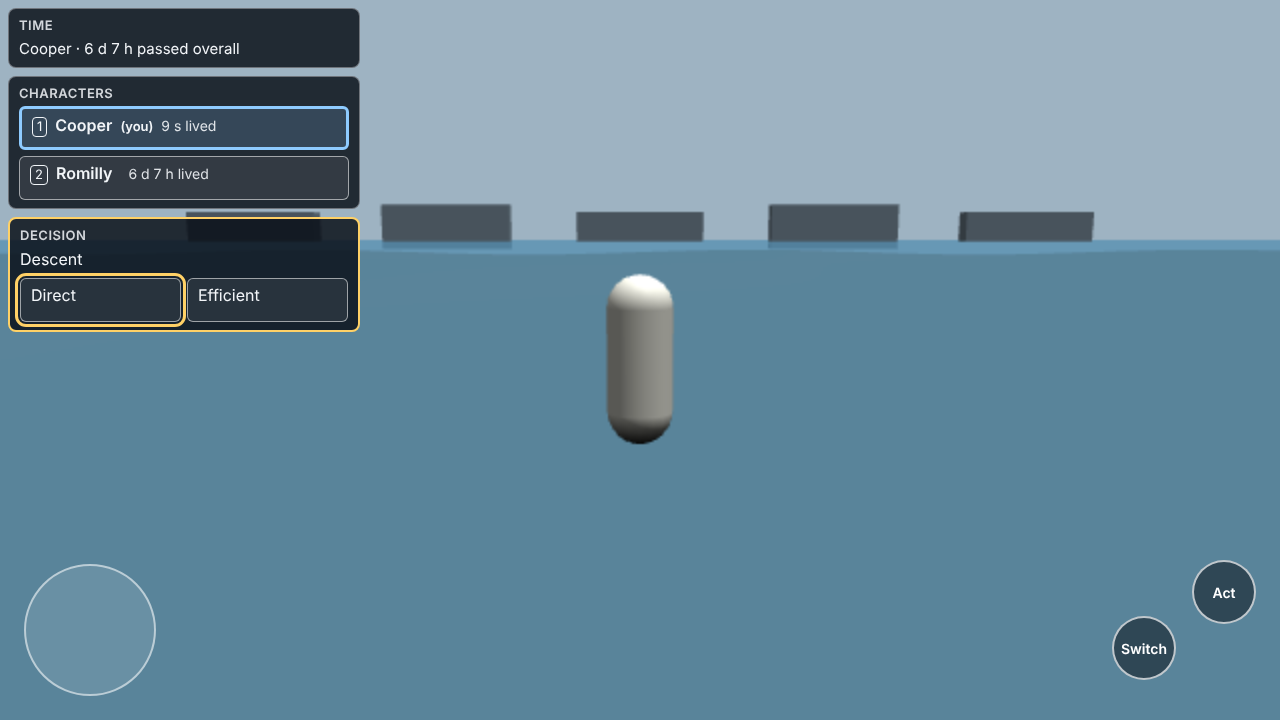
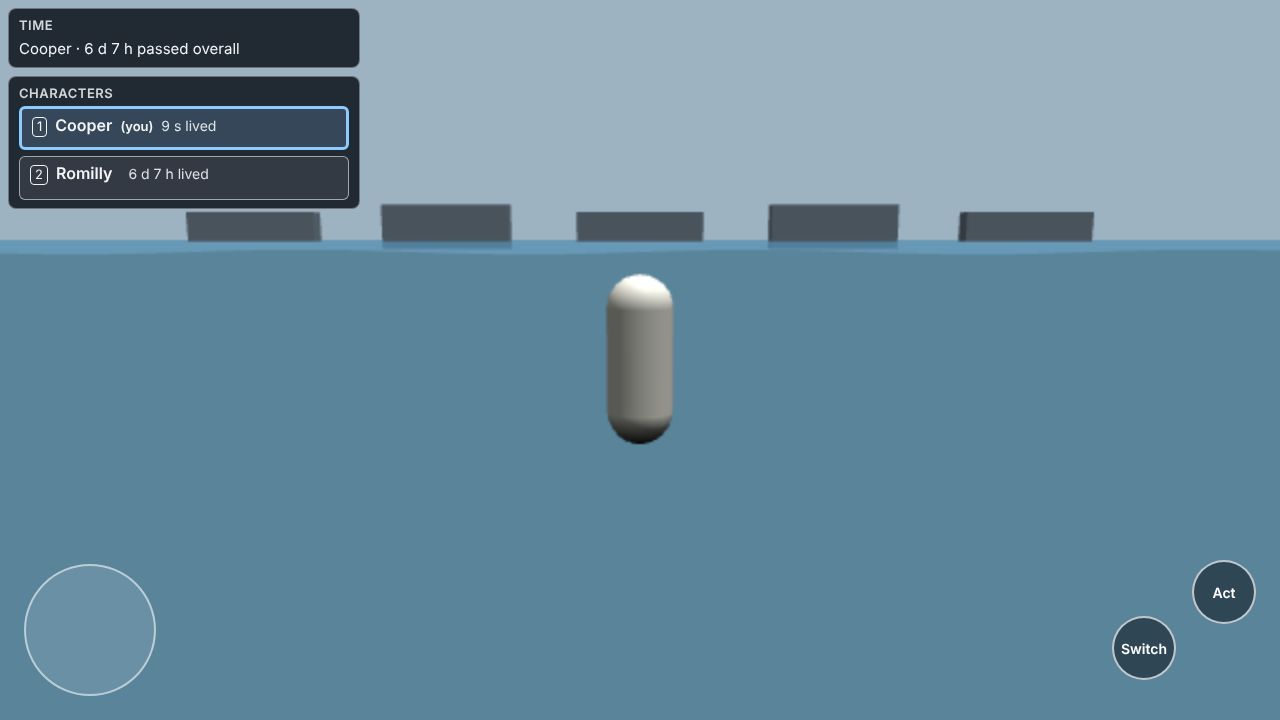
Pause free-roam for any open prompt; autosave ~2 s after committed commands (PERF-001)
Codex round 1: a pending decision owned by the controlled character now holds free-roam however it
became pending (soft, hard, loaded save). Autosave runs within ~2 s of a commit (timer not pushed back by
free-roam's per-second commits) as well as on hidden, so a plain reload or crash loses nothing.

Claude-Session: https://claude.ai/code/session_019ZRA2ktQdJdrbRQKNvUJYA

Changed region(s): [[0.0, 0.275, 0.2812, 0.4583]]

diff --git a/tests/app/freeroam.test.ts b/tests/app/freeroam.test.ts
@@ -1,15 +1,28 @@
 import { describe, expect, it } from "vitest";
 import m1 from "../../src/content/episodes/m1.json";
 import { loadEpisode } from "../../src/content";
-import { createEngine, createInitialState, createRules, type Command } from "../../src/domain";
+import { createEngine, createInitialState, createRules, type Command, type DecisionId } from "../../src/domain";
 import { createFreeRoam, MAX_FRAME_MS, TICK_MS } from "../../src/app/freeroam";
 
 const loaded = loadEpisode(m1);
 if (!loaded.ok) throw new Error(loaded.errors.join("\n"));
 const episode = loaded.episode;
 
-function setup(timeScale?: number) {
-  const game = createEngine(createInitialState(episode.initial), createRules(episode.tables));
+const ownerOf = (id: DecisionId) => episode.tables.decisions?.[id]?.owner;
+const newGame = () => createEngine(createInitialState(episode.initial), createRules(episode.tables));
+
+function setup(timeScale?: number, settled = true) {
+  const game = newGame();
+  if (settled) {
+    // decision.descent opens on the very first tick; the player answers it before roaming (see the modal test below).
+    game.dispatch({ kind: "FreeRoamTick", commandId: "warm", actorId: "char.cooper" as never, dTau: 1 });
+    game.dispatch({
+      kind: "ResolveDecision",
+      commandId: "descent",
+      decisionId: "decision.descent" as never,
+      optionId: "direct",
+    });
+  }
   const log: Command[] = [];
   let n = 0;
   const freeRoam = createFreeRoam({
@@ -19,6 +32,7 @@ function setup(timeScale?: number) {
       return game.dispatch(c);
     },
     newId: () => `tick-${++n}`,
+    ownerOf,
     ...(timeScale === undefined ? {} : { timeScale }),
   });
   return { game, log, freeRoam };
@@ -89,22 +103,52 @@ describe("free-roam accumulator (D-11, ARCHITECTURE §4)", () => {
     expect(log).toHaveLength(1);
   });
 
+  it("waits for the player whenever the controlled character has a prompt open, soft or hard", () => {
+    const { game, log, freeRoam } = setup(undefined, false);
+    run(freeRoam, TICK_MS, 100); // the first tick makes decision.descent (soft) pending
+    expect(game.getState().decisions["decision.descent" as never]?.status).toBe("pending");
+    expect(freeRoam.active).toBe(false);
+    const T = game.getState().T;
+    run(freeRoam, 20_000, 100);
+    expect(log).toHaveLength(1);
+    expect(game.getState().T).toBe(T);
+    game.dispatch({
+      kind: "ResolveDecision",
+      commandId: "d",
+      decisionId: "decision.descent" as never,
+      optionId: "efficient",
+    });
+    expect(freeRoam.active).toBe(true);
+    run(freeRoam, TICK_MS, 100);
+    expect(log).toHaveLength(2);
+  });
+
+  it("does not wait for a prompt that belongs to someone else", () => {
+    const { game, freeRoam } = setup();
+    // decision.hibernate is Romilly's; it never blocks Cooper's roaming just by being pending.
+    expect(ownerOf("decision.hibernate" as never)).toBe("char.romilly");
+    expect(game.getState().controlled).toBe("char.cooper");
+    expect(freeRoam.active).toBe(true);
+  });
+
   it("opens the prompt and waits when a hard deadline interrupts, then resumes once it is resolved", () => {
     const { game, log, freeRoam } = setup();
-    // Jump close to the recall decision, so the next tick crosses its trigger.
-    const trigger = 130_542_616;
-    game.dispatch({
-      kind: "AdvanceTime",
-      commandId: "adv",
-      actorId: "char.cooper" as never,
-      activityId: "scan.beacon",
-      dTau: 600,
-    });
-    expect(game.getState().T).toBeLessThan(trigger);
+    // Roam on, answering the soft prompts that open on the way, until the hard recall decision becomes pending.
     let guard = 0;
-    while (freeRoam.active && guard++ < 5000) run(freeRoam, TICK_MS, 100);
-    const decision = game.getState().decisions["decision.recall" as never];
-    expect(decision?.status).toBe("pending");
+    while (game.getState().decisions["decision.recall" as never]?.status !== "pending" && guard++ < 20_000) {
+      if (freeRoam.active) {
+        run(freeRoam, TICK_MS, 100);
+        continue;
+      }
+      const open = (Object.entries(game.getState().decisions) as unknown as [DecisionId, { status: string }][]).find(
+        ([id, d]) =>
+          d.status === "pending" && ownerOf(id) === "char.cooper" && id !== ("decision.recall" as DecisionId),
+      );
+      if (!open) break;
+      const option = Object.keys(episode.tables.decisions![open[0]]!.options)[0]!;
+      game.dispatch({ kind: "ResolveDecision", commandId: `r-${guard}`, decisionId: open[0], optionId: option });
+    }
+    expect(game.getState().decisions["decision.recall" as never]?.status).toBe("pending");
     expect(freeRoam.active).toBe(false);
     const ticks = log.length;
     run(freeRoam, 10_000, 100);

diff --git a/tests/app/autosave.test.ts b/tests/app/autosave.test.ts
@@ -1,0 +1,81 @@
+import { describe, expect, it, vi } from "vitest";
+import { createAutosaver } from "../../src/app/autosave";
+
+function setup(save: () => Promise<void> | void = () => undefined) {
+  let now = 0;
+  const timers: Array<{ at: number; run: () => void; id: number; live: boolean }> = [];
+  const saved = vi.fn(save);
+  const onError = vi.fn();
+  const saver = createAutosaver({
+    save: saved,
+    delayMs: 2000,
+    onError,
+    setTimer: (run, ms) => {
+      const t = { at: now + ms, run, id: timers.length, live: true };
+      timers.push(t);
+      return t;
+    },
+    clearTimer: (h) => {
+      (h as { live: boolean }).live = false;
+    },
+  });
+  const advance = async (ms: number) => {
+    now += ms;
+    for (const t of timers) {
+      if (t.live && t.at <= now) {
+        t.live = false;
+        t.run();
+      }
+    }
+    await Promise.resolve();
+    await Promise.resolve();
+  };
+  return { saver, saved, onError, advance };
+}
+
+describe("autosave after committed commands (TIMELINES §8)", () => {
+  it("saves about 2 s after a change, once for a burst", async () => {
+    const t = setup();
+    t.saver.changed();
+    t.saver.changed();
+    await t.advance(1999);
+    expect(t.saved).not.toHaveBeenCalled();
+    await t.advance(1);
+    expect(t.saved).toHaveBeenCalledTimes(1);
+    await t.advance(10_000);
+    expect(t.saved).toHaveBeenCalledTimes(1); // nothing new to save
+  });
+
+  it("still saves while changes keep arriving every second (free-roam), instead of being pushed back forever", async () => {
+    const t = setup();
+    for (let i = 0; i < 6; i++) {
+      t.saver.changed();
+      await t.advance(1000);
+    }
+    expect(t.saved.mock.calls.length).toBeGreaterThanOrEqual(2);
+  });
+
+  it("flush saves immediately when something is unsaved, and cancels the timer", async () => {
+    const t = setup();
+    t.saver.changed();
+    await t.saver.flush();
+    expect(t.saved).toHaveBeenCalledTimes(1);
+    await t.advance(5000);
+    expect(t.saved).toHaveBeenCalledTimes(1);
+    await t.saver.flush(); // clean: no write
+    expect(t.saved).toHaveBeenCalledTimes(1);
+  });
+
+  it("reports a failed save and tries again on the next change", async () => {
+    let fail = true;
+    const t = setup(() => {
+      if (fail) throw new Error("quota");
+    });
+    t.saver.changed();
+    await t.advance(2000);
+    expect(t.onError).toHaveBeenCalledTimes(1);
+    fail = false;
+    await t.saver.flush();
+    expect(t.saved).toHaveBeenCalledTimes(2);
+  });
+});

diff --git a/src/app/main.ts b/src/app/main.ts
@@ -13,6 +13,7 @@ import { IndexedDbBackend, MemoryBackend, SaveSlots } from "../persistence";
 import { createAdaptiveScaler, createRenderer, detectTier, scalingLevel, TIERS } from "../render";
 import { buildHudModel, mountHud } from "../ui";
 import { actionToCommand, type Interaction } from "./actions";
+import { createAutosaver } from "./autosave";
 import { createFreeRoam } from "./freeroam";
 import { attachLifecycle } from "./lifecycle";
 
@@ -43,6 +44,11 @@ game.subscribe((_state, events) => {
   if (eventTail.length > 400) eventTail.splice(0, eventTail.length - 200);
 });
 const nowIso = () => new Date().toISOString();
+// Autosave within ~2 s of any committed change, and at once when the tab is hidden (TIMELINES §8).
+const autosaver = createAutosaver({
+  save: () => slots.writeAutosave(game.getState(), eventTail.slice(-200), nowIso()),
+});
+game.subscribe(() => autosaver.changed());
 /** Every command goes through here, so checkpoints the domain captures are always stored (TIMELINES §8). */
 const dispatch = (command: Command): Result => {
   const result = game.dispatch(command);
@@ -110,7 +116,12 @@ if (hud) {
 }
 
 // Real-time free-roam (D-11): fixed 1 s quanta from accumulated real time, never from frame rate.
-const freeRoam = createFreeRoam({ getState: game.getState, dispatch, newId: () => crypto.randomUUID() });
+const freeRoam = createFreeRoam({
+  getState: game.getState,
+  dispatch,
+  newId: () => crypto.randomUUID(),
+  ownerOf: (id) => episode.tables.decisions?.[id]?.owner,
+});
 const baseLevel = scalingLevel(tier, devicePixelRatio);
 const scaler = createAdaptiveScaler(baseLevel, { min: baseLevel, max: baseLevel + 1 });
 engine.runRenderLoop(() => {
@@ -130,7 +141,7 @@ attachLifecycle({
     freeRoam.setPaused(paused);
     hudView?.setPaused(paused);
   },
-  autosave: async () => slots.writeAutosave(game.getState(), eventTail.slice(-200), nowIso()),
+  autosave: () => autosaver.flush(),
   rebuildScene: () => renderer.rebuild(),
 });
 

diff --git a/src/app/autosave.ts b/src/app/autosave.ts
@@ -1,0 +1,55 @@
+export interface AutosaverOptions {
+  /** Write the current state. Called with no arguments; it reads the latest state itself. */
+  save(): Promise<void> | void;
+  /** Longest an unsaved commit may wait (TIMELINES §8: ~2 s). */
+  delayMs?: number;
+  onError?(error: unknown): void;
+  setTimer?(run: () => void, ms: number): unknown;
+  clearTimer?(handle: unknown): void;
+}
+
+export interface Autosaver {
+  /** Note a committed change. Saves within `delayMs`. */
+  changed(): void;
+  /** Save now if anything is unsaved (hidden tab, page leaving), and cancel the pending timer. */
+  flush(): Promise<void>;
+}
+
+/**
+ * Autosave after committed commands (TIMELINES §8). The timer starts on the first unsaved change and is not pushed
+ * back by later ones: free-roam commits every second, so a debounce that restarts on each commit would never save.
+ */
+export function createAutosaver(options: AutosaverOptions): Autosaver {
+  const delay = options.delayMs ?? 2000;
+  const setTimer = options.setTimer ?? ((run, ms) => setTimeout(run, ms));
+  const clearTimer = options.clearTimer ?? ((h) => clearTimeout(h as ReturnType<typeof setTimeout>));
+  const report = (error: unknown) => (options.onError ?? console.error)(error);
+  let timer: unknown = null;
+  let dirty = false;
+
+  const write = async () => {
+    timer = null;
+    if (!dirty) return;
+    dirty = false;
+    try {
+      await options.save();
+    } catch (error) {
+      dirty = true; // keep it owed, so the next change or flush tries again
+      report(error);
+    }
+  };
+
+  return {
+    changed() {
+      dirty = true;
+      timer ??= setTimer(() => void write(), delay);
+    },
+    async flush() {
+      if (timer !== null) {
+        clearTimer(timer);
+        timer = null;
+      }
+      await write();
+    },
+  };
+}

diff --git a/src/app/freeroam.ts b/src/app/freeroam.ts
@@ -1,4 +1,4 @@
-import type { Command, GameState, Result } from "../domain";
+import type { CharacterId, Command, DecisionId, GameState, Result } from "../domain";
 
 /** One free-roam quantum is 1 s of accumulated real time (TIMELINES §5, ARCHITECTURE §4). */
 export const TICK_MS = 1000;
@@ -12,6 +12,8 @@ export interface FreeRoamOptions {
   readonly getState: () => GameState;
   readonly dispatch: (command: Command) => Result;
   readonly newId: () => string;
+  /** Who owns a decision (from the content tables), so a prompt the player can see counts as an open modal. */
+  readonly ownerOf: (id: DecisionId) => CharacterId | undefined;
   /** Proper seconds spent per real second (content parameter, default 1.0; D-11). */
   readonly timeScale?: number;
 }
@@ -39,6 +41,11 @@ export function createFreeRoam(options: FreeRoamOptions): FreeRoam {
   let waitingOn: string | null = null;
 
   const modalOpen = (state: GameState): boolean => {
+    // The HUD shows a prompt for every pending decision the controlled character owns (soft or hard), and TIMELINES §5
+    // says no menu or modal: time waits for the player's choice however the decision became pending.
+    for (const [id, entry] of Object.entries(state.decisions) as [DecisionId, GameState["decisions"][DecisionId]][]) {
+      if (entry.status === "pending" && options.ownerOf(id) === state.controlled) return true;
+    }
     if (waitingOn !== null) {
       if (state.decisions[waitingOn as never]?.status === "pending") return true;
       waitingOn = null;

diff --git a/docs/evidence/perf-001/README.md b/docs/evidence/perf-001/README.md
@@ -5,10 +5,12 @@ Headless Chromium (software GL), production build, `perfrun.mjs` (run: `node per
 | Acceptance | Result |
 | --- | --- |
 | Free-roam advances in real time | T grew from 60 436 s to 241 746 s over 3.6 s: one 1 s tick per second, ~17 h of T each on Miller |
+| Time waits for an open prompt | `decision.descent` opens on the first tick; T did not move for 2.5 s while it was open, then play resumed once answered |
 | Backgrounding does not advance the simulation | With `visibilitychange: hidden`, T was identical 3.5 s apart; the HUD showed "Paused"; resuming advanced T again |
 | Autosave on hidden | An `autosave` slot appeared with the same T as the state at the moment of hiding |
 | Context loss recovers without losing state | `WEBGL_lose_context.loseContext()` froze T and showed "Paused"; `restoreContext()` rebuilt the surface scene (new scene object), T did not move during the loss, and play resumed. `after-restore.png` shows the rebuilt scene |
-| Reload resumes | Reloading restored the saved T exactly (`?fresh` ignores the autosave) |
+| Foreground autosave | About 2 s after the last commit the autosave held the current T, with no hidden tab involved |
+| Reload resumes | Reloading restored that T exactly (`?fresh` ignores the autosave) |
 
 Manual steps for a phone: open the game, lock the screen for 30 s, unlock. Time passed overall must be unchanged and
 "Paused" should clear. Then switch apps and return.
